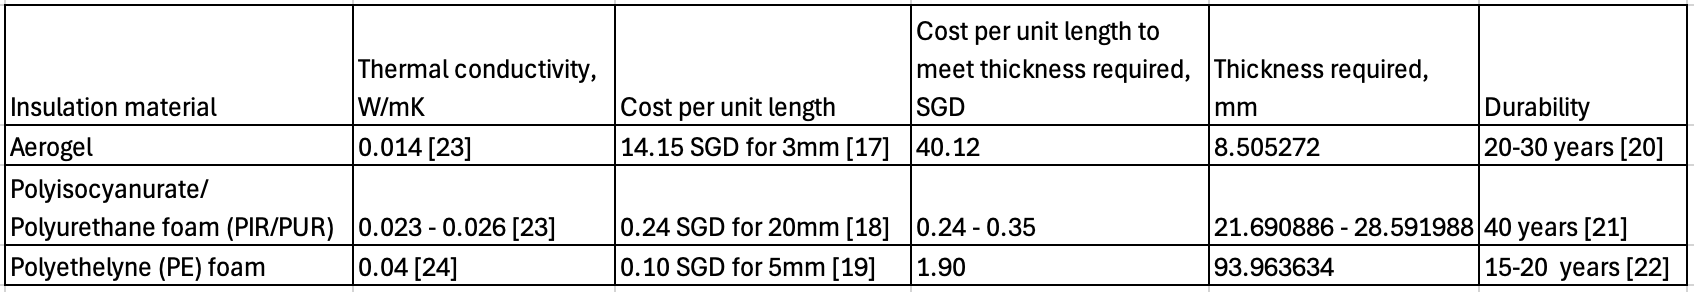
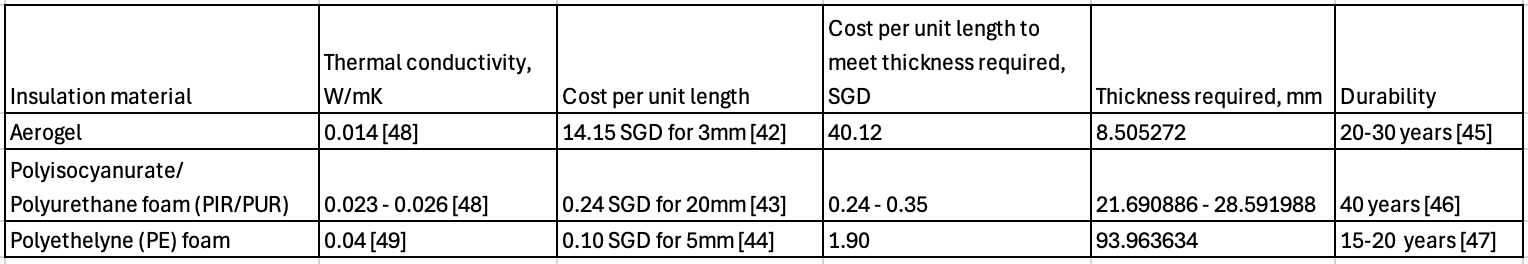
tt

diff --git a/thermaltransmissionsubs.html b/thermaltransmissionsubs.html
@@ -128,7 +128,7 @@
           </ul>
         </p>
         <p>
-          The system’s operating temperature and storage requirements are important as different HTF have different properties. [29] Furthermore, as large volumes of HTM are required, cost and performance needs to be balanced. [30]
+          The system’s operating temperature and storage requirements are important as different HTF have different properties. [54] Furthermore, as large volumes of HTM are required, cost and performance needs to be balanced. [55]
           <br /><br />
           This summary consists of the most common and major categories of HTMs. These are:
           <ol>
@@ -142,10 +142,10 @@
           </ol>
         </p>
         <p>
-          The common HTFs are molten salt and thermal oils, in high-temperature and moderate-temperature CSPs respectively.[29] Nanofluids and silicon-based fluids are new emerging materials. The comparison of each HTF are summarised below.
+          The common HTFs are molten salt and thermal oils, in high-temperature and moderate-temperature CSPs respectively.[54] Nanofluids and silicon-based fluids are new emerging materials. The comparison of each HTF are summarised below.
         </p>
         <image-component tag="image" source="assets/exm-htm-htm-comparison.png"
-          subtitle="Figure X: HTF comparison [29][31][32][33][34][35][44][45]"></image-component>
+          subtitle="Figure X: HTF comparison [54][56][57][58][59][60][69][70]"></image-component>
 
         <h3>Heat transfer fluid selection</h3>
         <p>
@@ -163,7 +163,7 @@
         </p>
 
         <image-component tag="image" source="assets/tt-htf-table.png"
-        subtitle="Table X: Properties of different low temperature HTF [6]"></image-component>
+        subtitle="Table X: Properties of different low temperature HTF [31]"></image-component>
 
         <br />
 
@@ -185,27 +185,27 @@
         <h2>Fluid motion</h2>
          <h3>Existing Methods: Fluid motion</h3>
         <p>
-          CSPs generally uses pumps, selected based on system requirements (material compatibility, operating temperature, flow rate, pressure requirements). [36] Pump companies like Ruhrpumpen and Sulzer provides pumping solutions. [37][38]
+          CSPs generally uses pumps, selected based on system requirements (material compatibility, operating temperature, flow rate, pressure requirements). [61] Pump companies like Ruhrpumpen and Sulzer provides pumping solutions. [62][63]
           <br /><br />
           Alternatively, thermosiphon can drive flow by gravity and natural circulation. (see Fig X)
         </p>
         <image-component tag="image" source="assets/exm-ff-thermosiphon.png"
-          subtitle="Figure X: Working of thermosiphon [39][40]"></image-component>
+          subtitle="Figure X: Working of thermosiphon [64][65]"></image-component>
         <p>
-         It is mainly used in solar water heaters under low volume and temperature. [41] In CSPs, its operational range and performance depends on HTF properties and the pressure from HTF expansion must be maintained for safe operations. [41] They are used in low to medium-temperature small-scale or prototype CSPs (see figure below) and are not used commercially. [42]
+         It is mainly used in solar water heaters under low volume and temperature. [66] In CSPs, its operational range and performance depends on HTF properties and the pressure from HTF expansion must be maintained for safe operations. [66] They are used in low to medium-temperature small-scale or prototype CSPs (see figure below) and are not used commercially. [67]
         </p>
         <image-component tag="image" source="assets/exm-ff-thermosiphon-ex.png"
-          subtitle="Figure X: Thermosiphon in small-scale linear collector CSP [42]"></image-component>
+          subtitle="Figure X: Thermosiphon in small-scale linear collector CSP [67]"></image-component>
         <p>
           Two-phase (loop) thermosiphons is another option, driving flow by evaporation and condensation which requires the fluid to operate near its boiling point. (see figure X)
         </p>
         <image-component tag="image" source="assets/exm-ff-two-phase.png"
-          subtitle="Figure X: Working of two-phase thermosiphon [43]"></image-component>
+          subtitle="Figure X: Working of two-phase thermosiphon[68]"></image-component>
         <p>
-          It is tested in prototype CSP systems, like the linear collector CSP below, and is not used commercially. [28] Due to vaporisation, pressure must be controlled for safe operations. [28]
+          It is tested in prototype CSP systems, like the linear collector CSP below, and is not used commercially. [53] Due to vaporisation, pressure must be controlled for safe operations. [53]
         </p>
         <image-component tag="image" source="assets/exm-ff-two-phase-ex.png"
-          subtitle="Figure X: Two phase thermosiphon in linear CSP [28]"></image-component>
+          subtitle="Figure X: Two phase thermosiphon in linear CSP [53]"></image-component>
 
         <h3>Fluid motion mechanism selection</h3>
         <p>
@@ -213,7 +213,7 @@
           <ul>
             <li><b>Thermosiphons</b> requires the TES to be above the receiver, blocking the light rays.</li>
             <br />
-            <li><b>Two-phase loop thermosiphons</b> can function at 0m height difference between the evaporator and condensor. [7]<!-- Reference: [7] https://docs.lib.purdue.edu/cgi/viewcontent.cgi?article=2516&context=iracc --> However, it requires the HTF to function near its boiling point, which our current system cannot reach. Should our system enable the HTF temperature to reach its boiling point, this method can be tested for its feasibility.</li>
+            <li><b>Two-phase loop thermosiphons</b> can function at 0m height difference between the evaporator and condensor. [32]<!-- Reference: [32] https://docs.lib.purdue.edu/cgi/viewcontent.cgi?article=2516&context=iracc --> However, it requires the HTF to function near its boiling point, which our current system cannot reach. Should our system enable the HTF temperature to reach its boiling point, this method can be tested for its feasibility.</li>
             <br />
             <li><b>Pumps</b> are chosen due to reliability and flexibility in meeting system requirments.</li>
           </ul>
@@ -358,7 +358,7 @@
             <mi>hA</mi>
             <mi>&Delta;</mi>
             <mi>T</mi>
-          </math>, improving efficiency of TES charging. However, it causes failures in the structure from thermal expansion. [26]
+          </math>, improving efficiency of TES charging. However, it causes failures in the structure from thermal expansion. [51]
           <br /><br />
           Hence, 5-10ºC change is selected.
 
@@ -624,12 +624,12 @@
                 <li>Assuming:</li>
                 <br />
                 <ul>
-                  <li>Grothen G328A uses SMPS. [12]</li>
-                  <!-- References: [12] https://www.sigmaaldrich.com/SG/en/product/aldrich/z678414 -->
-                  <li>Power factor (PF) = 0.6, assuming worst case (without PFC). [13]</li>
-                  <!-- References: [13] https://www.st.com/resource/en/application_note/an523-understanding-power-factor-stmicroelectronics.pdf -->
-                  <li>Electric efficiency = 90%. [14]</li>
-                  <!-- References: [14] https://www.circuitbread.com/ee-faq/what-are-the-efficiency-levels-of-different-power-supplies -->
+                  <li>Grothen G328A uses SMPS. [37]</li>
+                  <!-- References: [37] https://www.sigmaaldrich.com/SG/en/product/aldrich/z678414 -->
+                  <li>Power factor (PF) = 0.6, assuming worst case (without PFC). [38]</li>
+                  <!-- References: [38] https://www.st.com/resource/en/application_note/an523-understanding-power-factor-stmicroelectronics.pdf -->
+                  <li>Electric efficiency = 90%. [39]</li>
+                  <!-- References: [39] https://www.circuitbread.com/ee-faq/what-are-the-efficiency-levels-of-different-power-supplies -->
                 </ul>
                 <li>See <a href='TT-AC-power'>Appendix X</a> for calculation</li>
               </ul>
@@ -895,9 +895,9 @@
       <p>
       Assuming:
       <ul>
-        <li>Grothen G328A uses SMPS. [12]</li>
-        <li>Power factor (PF) = 0.6, assuming worst case (without PFC). [13]</li>
-        <li>Electric efficiency = 90%. [14]</li>
+        <li>Grothen G328A uses SMPS. [37]</li>
+        <li>Power factor (PF) = 0.6, assuming worst case (without PFC). [38]</li>
+        <li>Electric efficiency = 90%. [39]</li>
       </ul>
       </p>
       <p>
@@ -943,116 +943,116 @@
     <h2>References</h2>
     <p>
       <ul>
-        <li>[1] PUB, “Water Price,” PUB, Singapore’s National Water Agency, 2025. https://www.pub.gov.sg/Public/WaterLoop/Water-Price.<!-- [Accessed: 31 Oct 2025].--></li>
+        <li>[26] PUB, “Water Price,” PUB, Singapore’s National Water Agency, 2025. https://www.pub.gov.sg/Public/WaterLoop/Water-Price.<!-- [Accessed: 31 Oct 2025].--></li>
         <br />
 
-        <li>[2] Engineering ToolBox, “Water - Thermal Conductivity,” Engineeringtoolbox.com, 2012. https://www.engineeringtoolbox.com/water-liquid-gas-thermal-conductivity-temperature-pressure-d_2012.html.<!-- [Accessed: 31 Oct 2025].--></li>
+        <li>[27] Engineering ToolBox, “Water - Thermal Conductivity,” Engineeringtoolbox.com, 2012. https://www.engineeringtoolbox.com/water-liquid-gas-thermal-conductivity-temperature-pressure-d_2012.html.<!-- [Accessed: 31 Oct 2025].--></li>
         <br />
 
-        <li>[3] “Ethanol 50%, (v/v).” Available: https://www.columbuschemical.com/MSDS/SDS/Ethanol%2050%25%2C%20%28v-v%29%208589.pdf.<!-- [Accessed: 31 Oct 2025].--></li>
+        <li>[28] “Ethanol 50%, (v/v).” Available: https://www.columbuschemical.com/MSDS/SDS/Ethanol%2050%25%2C%20%28v-v%29%208589.pdf.<!-- [Accessed: 31 Oct 2025].--></li>
         <br />
 
-        <li>[4] “Therminol® VP1 Heat Transfer Fluid.” Accessed: Oct. 31, 2025. [Online]. Available: https://americasinternational.com/wp-content/uploads/2020/03/THERMINOL-VP1-SDS-EASTMAN.pdf.<!-- [Accessed: 31 Oct 2025].--></li>
+        <li>[29] “Therminol® VP1 Heat Transfer Fluid.” Accessed: Oct. 31, 2025. [Online]. Available: https://americasinternational.com/wp-content/uploads/2020/03/THERMINOL-VP1-SDS-EASTMAN.pdf.<!-- [Accessed: 31 Oct 2025].--></li>
         <br />
 
-        <li>[5] Super User, “Potassium Sodium Alloy - ESPI Metals,” Espimetals.com, 2015. https://www.espimetals.com/index.php/msds/799-Potassium%20Sodium%20Alloy.<!-- [Accessed: 31 Oct 2025].--></li>
+        <li>[30] Super User, “Potassium Sodium Alloy - ESPI Metals,” Espimetals.com, 2015. https://www.espimetals.com/index.php/msds/799-Potassium%20Sodium%20Alloy.<!-- [Accessed: 31 Oct 2025].--></li>
         <br />
 
-        <li>[6] L. Heller, “Literature Review on Heat Transfer Fluids and Thermal Energy Storage Systems in CSP Plants STERG Report,” 2018. https://www.semanticscholar.org/paper/Literature-Review-on-Heat-Transfer-Fluids-and-in-Heller/05353e299330ac84882ab456a6c63fcd9ecc3118.<!-- [Accessed: 31 Oct 2025].--></li>
+        <li>[31] L. Heller, “Literature Review on Heat Transfer Fluids and Thermal Energy Storage Systems in CSP Plants STERG Report,” 2018. https://www.semanticscholar.org/paper/Literature-Review-on-Heat-Transfer-Fluids-and-in-Heller/05353e299330ac84882ab456a6c63fcd9ecc3118.<!-- [Accessed: 31 Oct 2025].--></li>
         <br />
 
-        <li>[7] P. Zhang, X. Li, and S. Shang, “Effect of height difference on the performance of two-phase thermosyphon loop used in air conditioning system.,” Jul. 2014, Available: https://docs.lib.purdue.edu/cgi/viewcontent.cgi?article=2516&context=iracc.<!-- [Accessed: 31 Oct 2025].--></li>
+        <li>[32] P. Zhang, X. Li, and S. Shang, “Effect of height difference on the performance of two-phase thermosyphon loop used in air conditioning system.,” Jul. 2014, Available: https://docs.lib.purdue.edu/cgi/viewcontent.cgi?article=2516&context=iracc.<!-- [Accessed: 31 Oct 2025].--></li>
         <br />
 
-        <li>[8] “Amazon.com: NTBL GROTHEN G328A Peristaltic Pump 100-240V 114-500ml/min Adjustable High Flow Rate Food Grade Platinum Vulcanized Silicone Tube for DIY Aquarium Lab Chemical Analysis Dosing Additives : Industrial & Scientific,” Amazon.com, 2025. https://www.amazon.com/NTBL-Peristaltic-114-500ml-Adjustable-Vulcanized/dp/B0BNL1514C.<!-- [Accessed: 31 Oct 2025].--></li>
+        <li>[33] “Amazon.com: NTBL GROTHEN G328A Peristaltic Pump 100-240V 114-500ml/min Adjustable High Flow Rate Food Grade Platinum Vulcanized Silicone Tube for DIY Aquarium Lab Chemical Analysis Dosing Additives : Industrial & Scientific,” Amazon.com, 2025. https://www.amazon.com/NTBL-Peristaltic-114-500ml-Adjustable-Vulcanized/dp/B0BNL1514C.<!-- [Accessed: 31 Oct 2025].--></li>
         <br />
 
-        <li>[9] “Graflsoa GROTHEN G928 High-Flow Peristaltic Pump with 304 Stainless Steel Frame, 12V/24V DC Motor, 500mL/min Flow Rate, Easy Maintenance, Wide Applications in Labs and Pharmaceuticals,” Walmart.ca, 2025. https://www.walmart.ca/en/ip/Graflsoa-GROTHEN-G928-High-Flow-Peristaltic-Pump-304-Stainless-Steel-Frame-12V-24V-DC-Motor-500mL-min-Flow-Rate-Easy-Maintenance-Wide-Applications-La/45MRVPFB4B6P.<!-- [Accessed: 31 Oct 2025].--></li>
+        <li>[34] “Graflsoa GROTHEN G928 High-Flow Peristaltic Pump with 304 Stainless Steel Frame, 12V/24V DC Motor, 500mL/min Flow Rate, Easy Maintenance, Wide Applications in Labs and Pharmaceuticals,” Walmart.ca, 2025. https://www.walmart.ca/en/ip/Graflsoa-GROTHEN-G928-High-Flow-Peristaltic-Pump-304-Stainless-Steel-Frame-12V-24V-DC-Motor-500mL-min-Flow-Rate-Easy-Maintenance-Wide-Applications-La/45MRVPFB4B6P.<!-- [Accessed: 31 Oct 2025].--></li>
         <br />
 
-        <li>[10] Shopee.sg, 2017. https://shopee.sg/Peristaltic-Pump-Dosing-Pump-500ml-min-12V-DC-Grothen-G928-For-Analytical-Lab-i.352892875.26482359116.<!-- [Accessed: 31 Oct 2025].--></li>
+        <li>[35] Shopee.sg, 2017. https://shopee.sg/Peristaltic-Pump-Dosing-Pump-500ml-min-12V-DC-Grothen-G928-For-Analytical-Lab-i.352892875.26482359116.<!-- [Accessed: 31 Oct 2025].--></li>
         <br />
 
-        <li>[11] U. Mini, “USB Mini Submersible Water Pump,” Voltaat, 2021. https://www.voltaat.com/products/usb-mini-submersible-water-pump.<!-- [Accessed: 31 Oct 2025].--></li>
+        <li>[36] U. Mini, “USB Mini Submersible Water Pump,” Voltaat, 2021. https://www.voltaat.com/products/usb-mini-submersible-water-pump.<!-- [Accessed: 31 Oct 2025].--></li>
         <br />
 
-        <li>[12] "Multiflow peristaltic pump," Sigmaaldrich. https://www.sigmaaldrich.com/SG/en/product/aldrich/z678414.<!-- [Accessed: 31 Oct 2025].--></li>
+        <li>[37] "Multiflow peristaltic pump," Sigmaaldrich. https://www.sigmaaldrich.com/SG/en/product/aldrich/z678414.<!-- [Accessed: 31 Oct 2025].--></li>
         <br />
 
-        <li>[13] L. Wuidart, “APPLICATION NOTE ® UNDERSTANDING POWER FACTOR.” Available: https://www.st.com/resource/en/application_note/an523-understanding-power-factor-stmicroelectronics.pdf.<!-- [Accessed: 31 Oct 2025].--></li>
+        <li>[38] L. Wuidart, “APPLICATION NOTE ® UNDERSTANDING POWER FACTOR.” Available: https://www.st.com/resource/en/application_note/an523-understanding-power-factor-stmicroelectronics.pdf.<!-- [Accessed: 31 Oct 2025].--></li>
         <br />
 
-        <li>[14] “The Efficiency Levels of different Power Supplies,” CircuitBread. https://www.circuitbread.com/ee-faq/what-are-the-efficiency-levels-of-different-power-supplies.<!-- [Accessed: 31 Oct 2025].--></li>
+        <li>[39] “The Efficiency Levels of different Power Supplies,” CircuitBread. https://www.circuitbread.com/ee-faq/what-are-the-efficiency-levels-of-different-power-supplies.<!-- [Accessed: 31 Oct 2025].--></li>
         <br />
 
-        <li>[15] kissdumbo.sg, "GROTHEN G328A Peristaltic Pump 100-240V 114-500ml/min Adjustable High Flow Rate Food Grade Platinum Vulcanized Silicone Tube for DIY Aquarium Lab Chemical Analysis Dosing Additives," Shopee. https://shopee.sg/kissdumbo.sg/24001582496.<!-- [Accessed: 31 Oct 2025].--></li>
+        <li>[40] kissdumbo.sg, "GROTHEN G328A Peristaltic Pump 100-240V 114-500ml/min Adjustable High Flow Rate Food Grade Platinum Vulcanized Silicone Tube for DIY Aquarium Lab Chemical Analysis Dosing Additives," Shopee. https://shopee.sg/kissdumbo.sg/24001582496.<!-- [Accessed: 31 Oct 2025].--></li>
         <br />
 
-        <li>[16] officestucio.sg, "GROTHEN DC 12V Peristaltic Pump with Silicone Tubing High Flow Water Liquid Pump Dosing Vacuum Pump Self-Priming Anti-Corrosion Adjustable Flow for DIY Aquarium Lab Chemical A OFSG," Shopee. https://shopee.sg/officestucio.sg/23492563891.<!-- [Accessed: 31 Oct 2025].--></li>
+        <li>[41] officestucio.sg, "GROTHEN DC 12V Peristaltic Pump with Silicone Tubing High Flow Water Liquid Pump Dosing Vacuum Pump Self-Priming Anti-Corrosion Adjustable Flow for DIY Aquarium Lab Chemical A OFSG," Shopee. https://shopee.sg/officestucio.sg/23492563891.<!-- [Accessed: 31 Oct 2025].--></li>
         <br />
 
-        <li>[17] xuwaijiao.sg, "Silica Nano Aerogel CompoSite Thermal insulation Blanket Silica Thermal insulation Material Nano Thermal insulation Gel Board", Shopee. https://shopee.sg/xuwaijiao.sg/29878292492.<!-- [Accessed: 31 Oct 2025].--></li>
+        <li>[42] xuwaijiao.sg, "Silica Nano Aerogel CompoSite Thermal insulation Blanket Silica Thermal insulation Material Nano Thermal insulation Gel Board", Shopee. https://shopee.sg/xuwaijiao.sg/29878292492.<!-- [Accessed: 31 Oct 2025].--></li>
         <br />
 
-        <li>[18] pratamafoamid.sg, "Super PU Foam Sheet 100x50cm - Steam Iron Base Foam Coaster," Shopee. https://shopee.sg/pratamafoamid.sg/19407230558.<!-- [Accessed: 31 Oct 2025].--></li>
+        <li>[43] pratamafoamid.sg, "Super PU Foam Sheet 100x50cm - Steam Iron Base Foam Coaster," Shopee. https://shopee.sg/pratamafoamid.sg/19407230558.<!-- [Accessed: 31 Oct 2025].--></li>
         <br />
 
-        <li>[19] huangciawi.sg, "PE FOAM 3MM & 5MM THICK 1.2M WIDTH SOLD BY THE METER," Shopee. https://shopee.sg/huangciawi.sg/27713302260.<!-- [Accessed: 31 Oct 2025].--></li>
+        <li>[44] huangciawi.sg, "PE FOAM 3MM & 5MM THICK 1.2M WIDTH SOLD BY THE METER," Shopee. https://shopee.sg/huangciawi.sg/27713302260.<!-- [Accessed: 31 Oct 2025].--></li>
         <br />
 
-        <li>[20] SHENGLI OILFIELD DONGRUN MACHINERY ENGINEERING CO.,LTD, “What is the typical lifespan of Aerogel Felt in different applications? - Blog,” Farersteelpipe.com, Oct. 06, 2025. https://www.farersteelpipe.com/blog/what-is-the-typical-lifespan-of-aerogel-felt-in-different-applications-1329997.html.<!-- [Accessed: 31 Oct 2025].--></li>
+        <li>[45] SHENGLI OILFIELD DONGRUN MACHINERY ENGINEERING CO.,LTD, “What is the typical lifespan of Aerogel Felt in different applications? - Blog,” Farersteelpipe.com, Oct. 06, 2025. https://www.farersteelpipe.com/blog/what-is-the-typical-lifespan-of-aerogel-felt-in-different-applications-1329997.html.<!-- [Accessed: 31 Oct 2025].--></li>
         <br />
 
-        <li>[21] J. Tamparong, “10 Things You Must Know Before Using Polyurethane Foam Boards for Insulation,” General Plastics, Jul. 27, 2025. https://www.generalplastics.com/blog/10-things-you-must-know-before-using-polyurethane-foam-boards-for-insulation.<!-- [Accessed: 31 Oct 2025].--></li>
+        <li>[46] J. Tamparong, “10 Things You Must Know Before Using Polyurethane Foam Boards for Insulation,” General Plastics, Jul. 27, 2025. https://www.generalplastics.com/blog/10-things-you-must-know-before-using-polyurethane-foam-boards-for-insulation.<!-- [Accessed: 31 Oct 2025].--></li>
         <br />
 
-        <li>[22] leadong, “What is the life expectancy of PE insulation?,” Lukwom.com, Oct. 07, 2025. https://www.lukwom.com/What-is-the-life-expectancy-of-PE-insulation-id48918585.html.<!-- [Accessed: 31 Oct 2025].--></li>
+        <li>[47] leadong, “What is the life expectancy of PE insulation?,” Lukwom.com, Oct. 07, 2025. https://www.lukwom.com/What-is-the-life-expectancy-of-PE-insulation-id48918585.html.<!-- [Accessed: 31 Oct 2025].--></li>
         <br />
 
-        <li>[23] "Insulation materials and their thermal properties," Greenspec. http://www.greenspec.co.uk/building-design/insulation-materials-thermal-properties/.<!-- [Accessed: 31 Oct 2025].--></li>
+        <li>[48] "Insulation materials and their thermal properties," Greenspec. http://www.greenspec.co.uk/building-design/insulation-materials-thermal-properties/.<!-- [Accessed: 31 Oct 2025].--></li>
         <br />
 
-        <li>[24] “Polyethylene Foam Material,” The Rubber Company. https://therubbercompany.com/sponge-foam/polyethylene-foam/polyethylene-foam.<!-- [Accessed: 31 Oct 2025].--></li>
+        <li>[49] “Polyethylene Foam Material,” The Rubber Company. https://therubbercompany.com/sponge-foam/polyethylene-foam/polyethylene-foam.<!-- [Accessed: 31 Oct 2025].--></li>
         <br />
 
-        <li>[25] Clients Now Technologies, “DIFFERENCE BETWEEN PIR AND PUF INSULATION,” Alaska PUF Industries, 2025. https://www.alaskapuf.com/difference-between-pir-and-puf-insulation.php.<!-- [Accessed: 31 Oct 2025].--></li>
+        <li>[50] Clients Now Technologies, “DIFFERENCE BETWEEN PIR AND PUF INSULATION,” Alaska PUF Industries, 2025. https://www.alaskapuf.com/difference-between-pir-and-puf-insulation.php.<!-- [Accessed: 31 Oct 2025].--></li>
         <br />
 
-        <li>[26] “How to deal with thermal pipe expansion and contraction,” Walraven United Kingdom. https://www.walraven.com/en/how-to-guides/thermal-pipe-expansion/.<!-- [Accessed: 1 Nov 2025].--></li>
+        <li>[51] “How to deal with thermal pipe expansion and contraction,” Walraven United Kingdom. https://www.walraven.com/en/how-to-guides/thermal-pipe-expansion/.<!-- [Accessed: 1 Nov 2025].--></li>
         <br />
 
-        <li>[27] “GROTHEN DC 12V ปั๊มรีดพร้อมท่อซิลิโคน ปั๊มปุ๋ย ปั๊มสารเคมี เกรดอุตสาหกรรม 12VDC สีใส สีเขียว,” Miniature-solution.com, 2025. https://www.miniature-solution.com/p/911.<!-- [Accessed: 4 Nov 2025].--></li>
+        <li>[52] “GROTHEN DC 12V ปั๊มรีดพร้อมท่อซิลิโคน ปั๊มปุ๋ย ปั๊มสารเคมี เกรดอุตสาหกรรม 12VDC สีใส สีเขียว,” Miniature-solution.com, 2025. https://www.miniature-solution.com/p/911.<!-- [Accessed: 4 Nov 2025].--></li>
 
-        <li>[28] N. V. Velson, J. Charles, and J. Wang, “Loop Thermosyphon Enhanced Solar Collector,” OSTI OAI (U.S. Department of Energy Office of Scientific and Technical Information), Jul. 2022, doi: https://doi.org/10.2172/2324931.</li>
+        <li>[53] N. V. Velson, J. Charles, and J. Wang, “Loop Thermosyphon Enhanced Solar Collector,” OSTI OAI (U.S. Department of Energy Office of Scientific and Technical Information), Jul. 2022, doi: https://doi.org/10.2172/2324931.</li>
 
-        <li>[29] Collins Chike Kwasi-Effah. (2024). Heat Transfer Fluids in Solar Thermal Power Plants: A Review. NIPES - Journal of Science and Technology Research. Retrieved from https://journals.nipes.org/index.php/njstr/article/view/1109.</li>
+        <li>[54] Collins Chike Kwasi-Effah. (2024). Heat Transfer Fluids in Solar Thermal Power Plants: A Review. NIPES - Journal of Science and Technology Research. Retrieved from https://journals.nipes.org/index.php/njstr/article/view/1109.</li>
 
-        <li>[30] K. Vignarooban, X. Xu, A. Arvay, K. Hsu, and A. M. Kannan, “Heat transfer fluids for concentrating solar power systems – A review,” Applied Energy, vol. 146, pp. 383–396, May 2015, doi: https://doi.org/10.1016/j.apenergy.2015.01.125.</li>
+        <li>[55] K. Vignarooban, X. Xu, A. Arvay, K. Hsu, and A. M. Kannan, “Heat transfer fluids for concentrating solar power systems – A review,” Applied Energy, vol. 146, pp. 383–396, May 2015, doi: https://doi.org/10.1016/j.apenergy.2015.01.125.</li>
 
         <!--HTF table-->
-        <li>[31] “HELISOL® 5A,” WACKER Website, 2025. https://www.wacker.com/h/en-us/c/helisol-5a/p/000006109 (accessed Nov. 02, 2025).</li>
-        <li>[32] M. Botejara-Antúnez, J. González-Domínguez, F. J. Rebollo-Castillo, and J. García-Sanz-Calcedo, “Life cycle and environmental impact assessment of heat transfer fluids in parabolic trough CSP plants,” Sustainable Energy Technologies and Assessments, vol. 74, p. 104188, Jan. 2025, doi: https://doi.org/10.1016/j.seta.2025.104188.</li>
-        <li>[33] Alami, A.H., Ramadan, M., Tawalbeh, M. et al. A critical insight on nanofluids for heat transfer enhancement. Sci Rep 13, 15303 (2023). https://doi.org/10.1038/s41598-023-42489-0</li>
-        <li>[34] A. Heinzel et al., “Liquid Metals as Efficient High-Temperature Heat-Transport Fluids,” Energy Technology, vol. 5, no. 7, pp. 1026–1036, Mar. 2017, doi: https://doi.org/10.1002/ente.201600721.</li>
-        <li>[35] A. Yahya, Jaouad Zerhouni, El Ghali Bennouna, Nourddine Boutammachte, and A. Lagrioui, “An Overview of Silicone-Based Heat Transfer Fluids in Concentrated Solar Power Systems,” E3S Web of Conferences, vol. 649, pp. 01007–01007, Jan. 2025, doi: https://doi.org/10.1051/e3sconf/202564901007.</li>
+        <li>[56] “HELISOL® 5A,” WACKER Website, 2025. https://www.wacker.com/h/en-us/c/helisol-5a/p/000006109 (accessed Nov. 02, 2025).</li>
+        <li>[57] M. Botejara-Antúnez, J. González-Domínguez, F. J. Rebollo-Castillo, and J. García-Sanz-Calcedo, “Life cycle and environmental impact assessment of heat transfer fluids in parabolic trough CSP plants,” Sustainable Energy Technologies and Assessments, vol. 74, p. 104188, Jan. 2025, doi: https://doi.org/10.1016/j.seta.2025.104188.</li>
+        <li>[58] Alami, A.H., Ramadan, M., Tawalbeh, M. et al. A critical insight on nanofluids for heat transfer enhancement. Sci Rep 13, 15303 (2023). https://doi.org/10.1038/s41598-023-42489-0</li>
+        <li>[59] A. Heinzel et al., “Liquid Metals as Efficient High-Temperature Heat-Transport Fluids,” Energy Technology, vol. 5, no. 7, pp. 1026–1036, Mar. 2017, doi: https://doi.org/10.1002/ente.201600721.</li>
+        <li>[60] A. Yahya, Jaouad Zerhouni, El Ghali Bennouna, Nourddine Boutammachte, and A. Lagrioui, “An Overview of Silicone-Based Heat Transfer Fluids in Concentrated Solar Power Systems,” E3S Web of Conferences, vol. 649, pp. 01007–01007, Jan. 2025, doi: https://doi.org/10.1051/e3sconf/202564901007.</li>
 
-        <li>[36] “Pumps for Concentrated Solar Power,” Ruhrpumpen.com, Feb. 19. https://www.ruhrpumpen.com/en/downloads/resources/markets/65-solar-market-en/file.html.</li>
+        <li>[61] “Pumps for Concentrated Solar Power,” Ruhrpumpen.com, Feb. 19. https://www.ruhrpumpen.com/en/downloads/resources/markets/65-solar-market-en/file.html.</li>
 
-        <li>[37] Ruhrpumpen Group Website - Molten Salt Pump for Yumen Xinneng CSP plant,” Ruhrpumpen.com, Dec. 07, 2018. https://www.ruhrpumpen.com/en/media-center/molten-salt-pump-for-yumen-xinneng-csp.</li>
-        <li>[38] “Sulzer technology selected for 100 MW solar energy project in China | Sulzer,” Sulzer.com, 2024. https://www.sulzer.com/en/shared/news/240702-sulzer-technology-selected-for-100-mw-solar-energy-project-in-china.</li>
+        <li>[62] Ruhrpumpen Group Website - Molten Salt Pump for Yumen Xinneng CSP plant,” Ruhrpumpen.com, Dec. 07, 2018. https://www.ruhrpumpen.com/en/media-center/molten-salt-pump-for-yumen-xinneng-csp.</li>
+        <li>[63] “Sulzer technology selected for 100 MW solar energy project in China | Sulzer,” Sulzer.com, 2024. https://www.sulzer.com/en/shared/news/240702-sulzer-technology-selected-for-100-mw-solar-energy-project-in-china.</li>
 
-        <li>[39] S. S. HUSSAIN, “Solar water heaters are an eco-friendly and efficient way to utilize solar energy for daily hot water needs. Among the various designs available, the thermosyphon system stands out due to its simplicity and effectiveness.,” Linkedin.com, Jun. 05, 2024. https://www.linkedin.com/pulse/understanding-thermosyphon-effect-solar-water-heaters-hussain-h33dc. </li>
-        <li>[40] A. Jamar, Z. A. A. Majid, W. H. Azmi, M. Norhafana, and A. A. Razak, “A review of water heating system for solar energy applications,” International Communications in Heat and Mass Transfer, vol. 76, pp. 178–187, Aug. 2016, doi: https://doi.org/10.1016/j.icheatmasstransfer.2016.05.028.</li>
+        <li>[64] S. S. HUSSAIN, “Solar water heaters are an eco-friendly and efficient way to utilize solar energy for daily hot water needs. Among the various designs available, the thermosyphon system stands out due to its simplicity and effectiveness.,” Linkedin.com, Jun. 05, 2024. https://www.linkedin.com/pulse/understanding-thermosyphon-effect-solar-water-heaters-hussain-h33dc. </li>
+        <li>[65] A. Jamar, Z. A. A. Majid, W. H. Azmi, M. Norhafana, and A. A. Razak, “A review of water heating system for solar energy applications,” International Communications in Heat and Mass Transfer, vol. 76, pp. 178–187, Aug. 2016, doi: https://doi.org/10.1016/j.icheatmasstransfer.2016.05.028.</li>
 
-        <li>[41] P. D. Ranjan, S. Basu, and P, Dhanush A, “Experimental investigation on the performance of thermosyphon charging of a single-medium stratified storage system for concentrated solar power applications,” arXiv (Cornell University), Dec. 2022, doi: https://doi.org/10.48550/arxiv.2211.16953.</li>
+        <li>[66] P. D. Ranjan, S. Basu, and P, Dhanush A, “Experimental investigation on the performance of thermosyphon charging of a single-medium stratified storage system for concentrated solar power applications,” arXiv (Cornell University), Dec. 2022, doi: https://doi.org/10.48550/arxiv.2211.16953.</li>
 
-        <li>[42] J. Saed, M. Abdunnabi, A. Essnid, and A. Buishi, “New Designed Thermosyphon Solar Water Heater with Small Sized Parabolic Trough Collectors,” Solar Energy and Sustainable Development Journal, vol. 6, no. 2, pp. 30–41, Dec. 2017, doi: https://doi.org/10.51646/jsesd.v6i2.44.</li>
+        <li>[67] J. Saed, M. Abdunnabi, A. Essnid, and A. Buishi, “New Designed Thermosyphon Solar Water Heater with Small Sized Parabolic Trough Collectors,” Solar Energy and Sustainable Development Journal, vol. 6, no. 2, pp. 30–41, Dec. 2017, doi: https://doi.org/10.51646/jsesd.v6i2.44.</li>
 
-        <li>[43] J. Charles and N. V. Velson, “LOOP THERMOSYPHON DESIGN FOR SOLAR THERMAL DESALINATION,” Proceeding of 5-6th Thermal and Fluids Engineering Conference (TFEC), pp. 239–248, Jan. 2021, doi: https://doi.org/10.1615/tfec2021.cmd.036291.</li>
+        <li>[68] J. Charles and N. V. Velson, “LOOP THERMOSYPHON DESIGN FOR SOLAR THERMAL DESALINATION,” Proceeding of 5-6th Thermal and Fluids Engineering Conference (TFEC), pp. 239–248, Jan. 2021, doi: https://doi.org/10.1615/tfec2021.cmd.036291.</li>
 
-        <li>[44] Falahat, Farah & Gomaa, Mohamed. (2022). A review study on solar tower using different heat transfer fluid. Technology Audit and Production Reserves. 5. 10.15587/2706-5448.2022.267560.</li>
+        <li>[69] Falahat, Farah & Gomaa, Mohamed. (2022). A review study on solar tower using different heat transfer fluid. Technology Audit and Production Reserves. 5. 10.15587/2706-5448.2022.267560.</li>
 
-        <li>[45] Heller, Lukas. “Literature Review on Heat Transfer Fluids and Thermal Energy Storage Systems in CSP Plants STERG Report.” (2013).</li>
+        <li>[70] Heller, Lukas. “Literature Review on Heat Transfer Fluids and Thermal Energy Storage Systems in CSP Plants STERG Report.” (2013).</li>
       </ul>
     </p>
 
